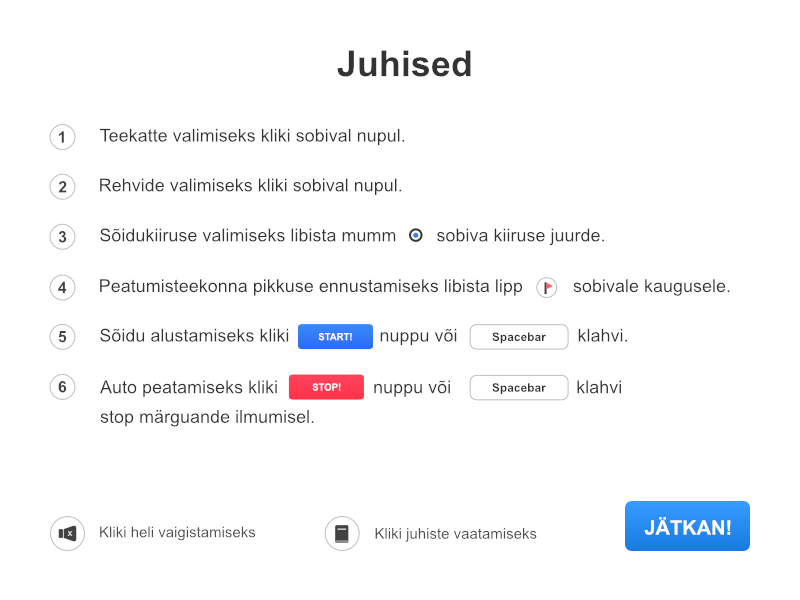
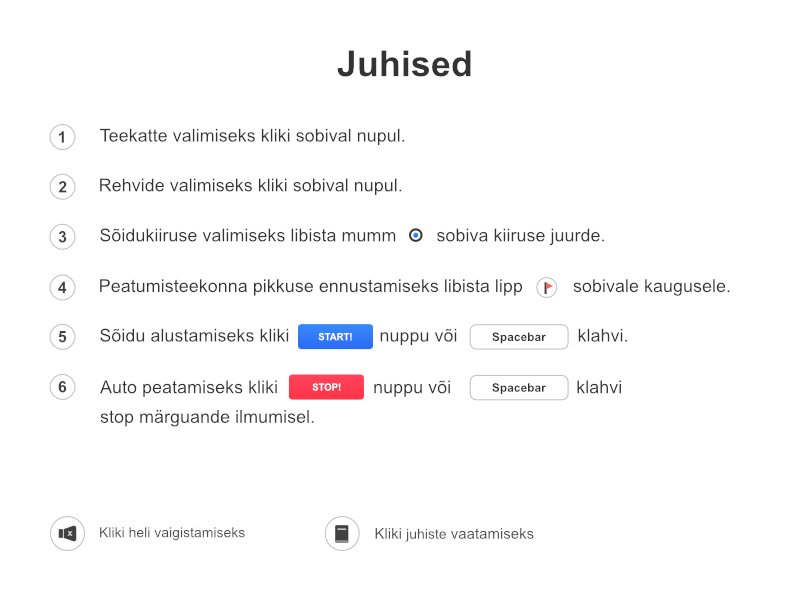
juhiste leht bugine veel

Changed region(s): [[0.7812, 0.81, 0.9375, 0.93], [0.5, 0.87, 0.6875, 0.9], [0.125, 0.87, 0.3125, 0.9]]

diff --git a/game.js b/game.js
@@ -225,6 +225,7 @@ function create () {
     autoFullStop = 0;
 
     heliInt = 0;
+    juhisedInt = 0;
     
     
 
@@ -273,6 +274,7 @@ function create () {
         proovinNupp.destroy()
         jatkanNupp.inputEnabled = true;
         jatkanNupp.input.useHandCursor = true;
+        proovinInt = 0;
     }
 
     function jatkanClick() {
@@ -407,7 +409,6 @@ function update () {
             //efe = efe - 1;
             
             // et soundi m2ngitaks vaid 1 kord, muutub efe2 kohe üheks
-            
             if (efe2 == 1) {
             breaking_sound.play(); 
             currentTime2 = +new Date();
@@ -522,8 +523,6 @@ function onClickTeekate_1() {
         teekateValik('majadJaTee');
     }
     
-    teekateNupudDel();
-    
     teekate_1 = game.add.button(123, 450, 'teekate_1', onClickTeekate_1, this, 2, 2, 2);
     console.log("teekate1 nupp vajutatud" )
     teekate_2 = game.add.button(123, 484, 'teekate_2', onClickTeekate_2, this, 1, 0, 2);
@@ -544,8 +543,6 @@ function onClickTeekate_2() {
         teekateValik('majadLompidega');
     }
     
-    teekateNupudDel();
-    
     teekate_2 = game.add.button(123, 484, 'teekate_2', onClickTeekate_2, this, 2, 2, 2);
     console.log("teekate2 nupp vajutatud" )
     teekate_1 = game.add.button(123, 450, 'teekate_1', onClickTeekate_1, this, 1, 0, 2);    
@@ -564,8 +561,6 @@ function onClickTeekate_3() {
     } else {
         teekateValik('majadLumine');
     }
-    
-    teekateNupudDel(); 
     
     teekate_3 = game.add.button(123, 518, 'teekate_3', onClickTeekate_3, this, 2, 2, 2);
     console.log("teekate3 nupp vajutatud" )
@@ -642,6 +637,8 @@ function onClickUuesti() {
     efe3 = 0;
     startStopInt = 0;   
     proloog = 0;
+
+    juhisedInt = 0;
     
     
     
@@ -879,16 +876,42 @@ function heliClick() {
     }
 }
 function juhisedClick() {
-    console.log('juhisednupp vajutatud')
+    juhisedInt +=1;
+    if (juhisedInt % 2 == 1) {
+        console.log('juhisednupp vajutatud')
+        juhised = game.add.sprite(0, 0, 'juhised') 
+        game.physics.arcade.enable(juhised)
+        kiiruseNupp.inputEnabled = false;
+        startStopNupp.inputEnabled = false;
+        teekate_1.inputEnabled = false;
+        teekate_2.inputEnabled = false;
+        teekate_3.inputEnabled = false;
+        //et avalehel ei saaks jätka vajutada :@
+        jatkanNupp.inputEnabled = false;
+        this.input.keyboard.enabled = false;  
+        nupuTaust = game.add.sprite(675, 20, 'nupuTaust')   
+        game.physics.arcade.enable(nupuTaust)
+        heliNupp = game.add.button(685, 27, 'heliNupp', heliClick, this, 1, 1, 1);
+        juhisedNupp = game.add.button(730, 27, 'juhisedNupp', juhisedClick, this, 0, 0, 0);  
+    }
+    else {
+        juhised.destroy()
+        kiiruseNupp.inputEnabled = true;
+        startStopNupp.inputEnabled = true;
+        teekate_1.inputEnabled = true;
+        teekate_2.inputEnabled = true;
+        teekate_3.inputEnabled = true;
+        //et avalehel ei saaks jätka vajutada :@
+        this.input.keyboard.enabled = true;
+    }
+    
 }
 // aja muutujad
 var currentTime1
 var currentTime2
 
-function teekateNupudDel() {
-    teekate_1.destroy();
-    teekate_2.destroy();
-    teekate_3.destroy();
-}
+//var now = new Date().toLocaleTimeString();
 
 
+//var currentTime1 = +new Date();
+//var currentTime2 = +new Date();
